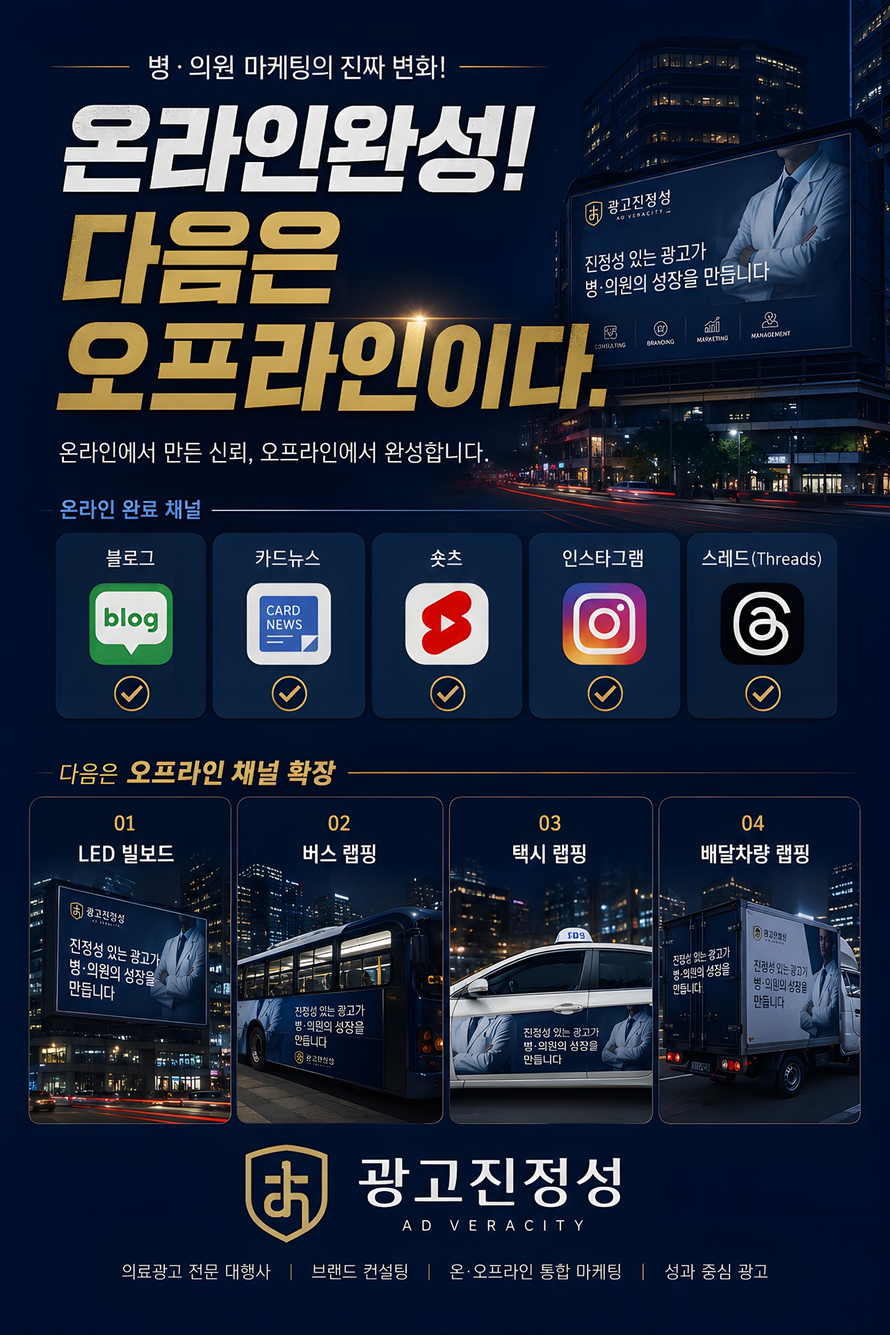
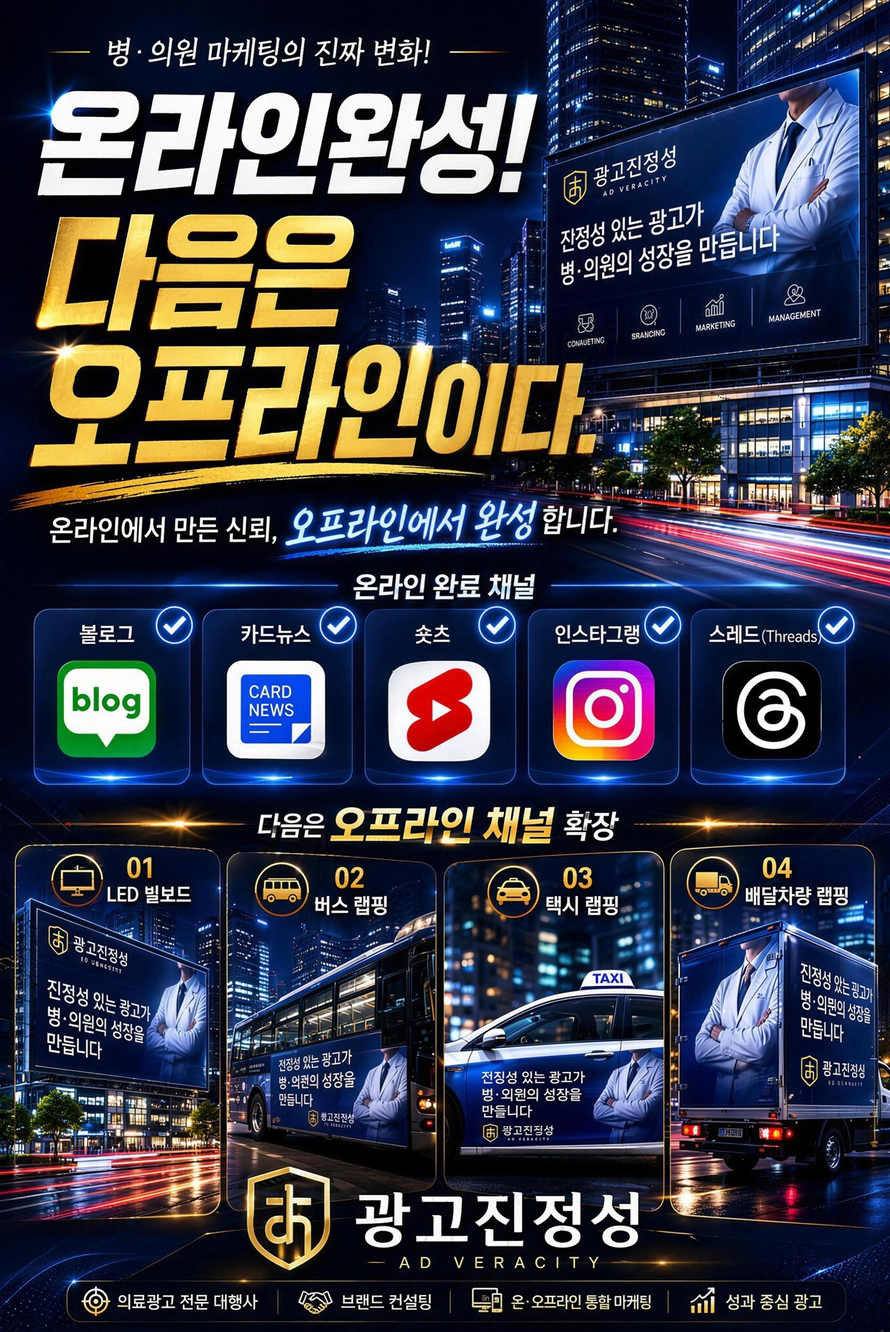
fix: 광고 배너를 고해상도 버전으로 교체(글자 선명)
higgsfield 고해상도(2737x4096) 배너 → 1280x1916 JPEG q92(774KB)로 최적화 교체. 글자 또렷, 링크 동일.

diff --git a/src/app/app/page.tsx b/src/app/app/page.tsx
@@ -124,7 +124,7 @@ function HospitalMarketingBanner() {
         src="/ads/hospitalmarketing-banner.jpg"
         alt="병원 마케팅 풀세팅 — 인스타그램·유튜브·네이버 스마트플레이스·전광판·버스 택시 랩핑·택배 광고"
         width={1280}
-        height={1920}
+        height={1916}
         className="ad-banner-hm-img block w-full h-auto"
         loading="lazy"
         decoding="async"
